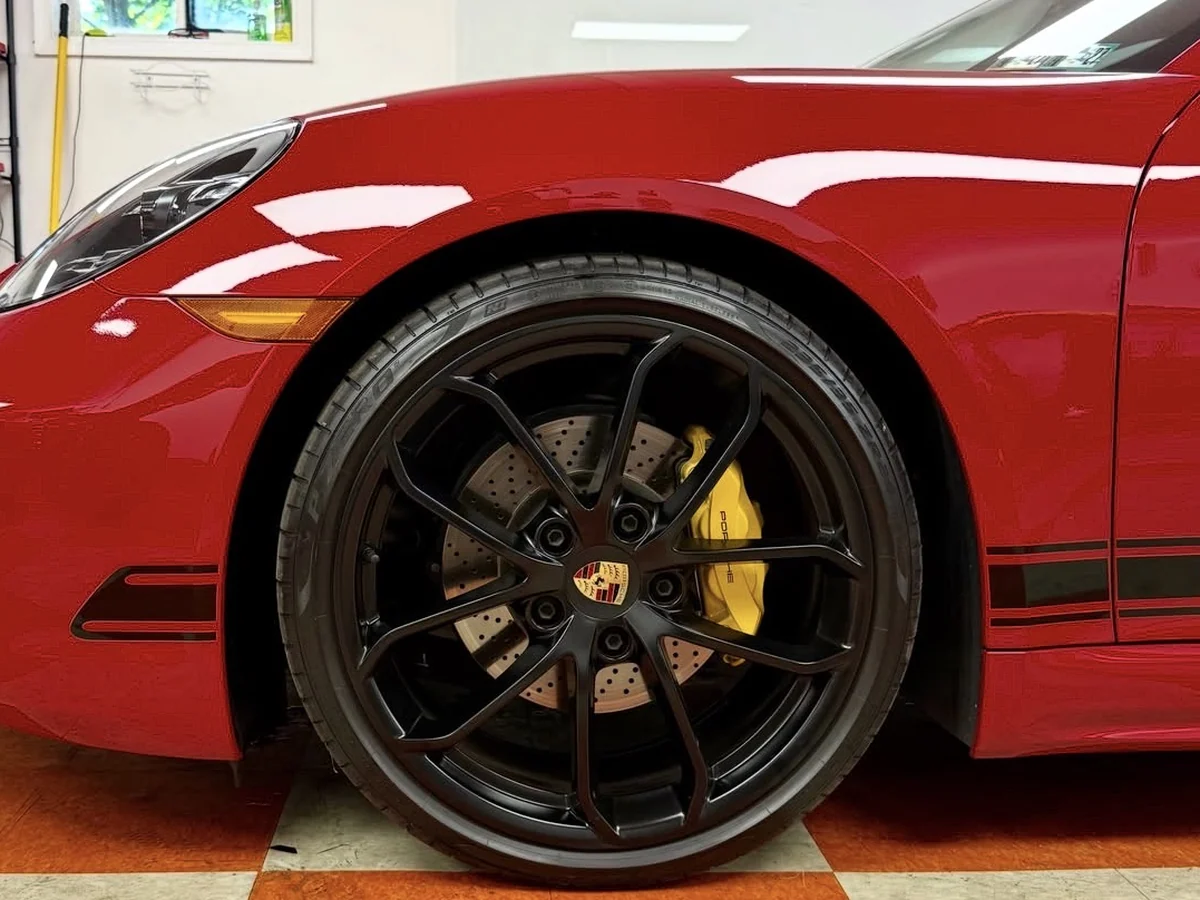
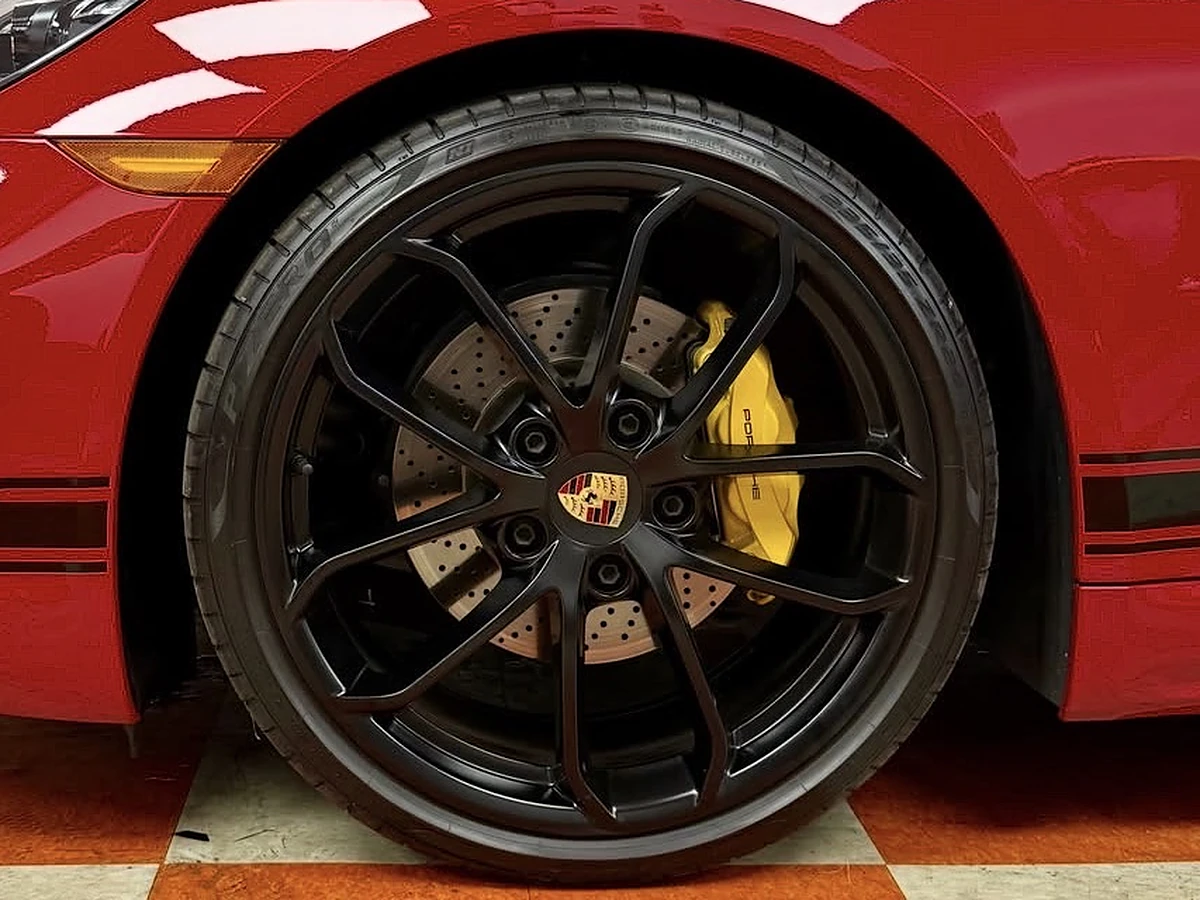
Center wheels in caliper photos, sharpen and raise quality; lead with sports car
Claude-Session: https://claude.ai/code/session_01TC8hHsQGEZ2GaHBM8k3cGS

diff --git a/index.html b/index.html
@@ -123,7 +123,7 @@
     <div class="wrap calipers-grid">
       <div class="caliper-view" id="caliper-view" data-mode="photo">
         <canvas id="caliper-canvas" tabindex="0" role="img" aria-label="3D model of a wheel and brake caliper in the selected color. Drag, or use the arrow keys, to change the angle."></canvas>
-        <img id="caliper-img" src="assets/img/caliper-real.webp" alt="Gloss black wheel with red brake calipers, finished by Main Line Auto Works" width="1200" height="900" loading="lazy">
+        <img id="caliper-img" src="assets/img/caliper-sports.webp" alt="Black wheel on a red sports car" width="1200" height="900" loading="lazy">
         <canvas id="caliper-paint" width="193" height="347" aria-hidden="true"></canvas>
         <p class="cv-hint" aria-hidden="true"><span class="cv-hint-icon"></span>Drag to rotate</p>
         <div class="cv-mode" role="group" aria-label="View">
@@ -143,8 +143,8 @@
         <p>The detail people notice at a stoplight. We refinish your brake calipers in high-heat, professional-grade paint, in the color you choose.</p>
         <p class="picker-label" id="vehicle-label">Vehicle</p>
         <div class="vehicle-picker" role="radiogroup" aria-labelledby="vehicle-label">
-          <button role="radio" aria-checked="true" data-vehicle="sedan">Sedan</button>
-          <button role="radio" aria-checked="false" data-vehicle="sports">Sports car</button>
+          <button role="radio" aria-checked="true" data-vehicle="sports">Sports car</button>
+          <button role="radio" aria-checked="false" data-vehicle="sedan">Sedan</button>
           <button role="radio" aria-checked="false" data-vehicle="truck">Truck</button>
           <button role="radio" aria-checked="false" data-vehicle="closeup">Close-up</button>
         </div>
@@ -371,6 +371,6 @@
 </footer>
 
 <script src="caliper-3d.js?v=202611091725" defer></script>
-<script src="main.js?v=202611091740" defer></script>
+<script src="main.js?v=202611091750" defer></script>
 </body>
 </html>

diff --git a/main.js b/main.js
@@ -45,9 +45,9 @@ let presetColor = 'red';
 // on top, alpha = the caliper outline. Any color is lit by that photo's own light.
 // box = where the shade layer sits in the 1200x900 photo: [x, y, width, height].
 const VEHICLES = {
-  sedan:   { img: 'assets/img/caliper-real.webp',    shade: 'assets/img/caliper-real-shade.png',    box: [327, 303, 193, 347], alt: 'Gloss black wheel on a grey sedan' },
-  sports:  { img: 'assets/img/caliper-sports.webp',  shade: 'assets/img/caliper-sports-shade.png',  box: [674, 422, 98, 218],  alt: 'Black wheel on a red sports car' },
-  truck:   { img: 'assets/img/caliper-truck.webp',   shade: 'assets/img/caliper-truck-shade.png',   box: [632, 430, 65, 147],  alt: 'Gloss black wheel on a grey pickup truck' },
+  sports:  { img: 'assets/img/caliper-sports.webp',  shade: 'assets/img/caliper-sports-shade.png',  box: [687, 299, 121, 271], alt: 'Black wheel on a red sports car' },
+  sedan:   { img: 'assets/img/caliper-sedan.webp',   shade: 'assets/img/caliper-sedan-shade.png',   box: [303, 207, 209, 378], alt: 'Gloss black wheel on a grey sedan' },
+  truck:   { img: 'assets/img/caliper-truck.webp',   shade: 'assets/img/caliper-truck-shade.png',   box: [710, 346, 72, 165],  alt: 'Gloss black wheel on a grey pickup truck' },
   closeup: { img: 'assets/img/caliper-closeup.webp', shade: 'assets/img/caliper-closeup-shade.png', box: [47, 0, 334, 900],    alt: 'Close-up of a brake caliper beside a drilled rotor' }
 };
 const paint = (() => {
@@ -120,7 +120,7 @@ const paint = (() => {
     };
     anim = requestAnimationFrame(step);
   }
-  setVehicle('sedan', true);
+  setVehicle('sports', true);
   // warm the other vehicles once the section is near, so switching is instant
   new IntersectionObserver((es, obs) => {
     if (!es[0].isIntersecting) return;
